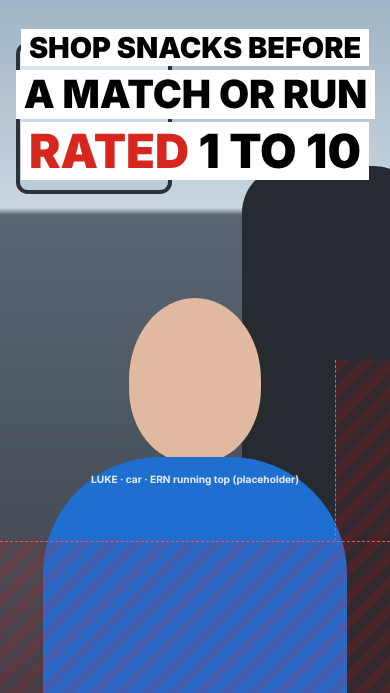
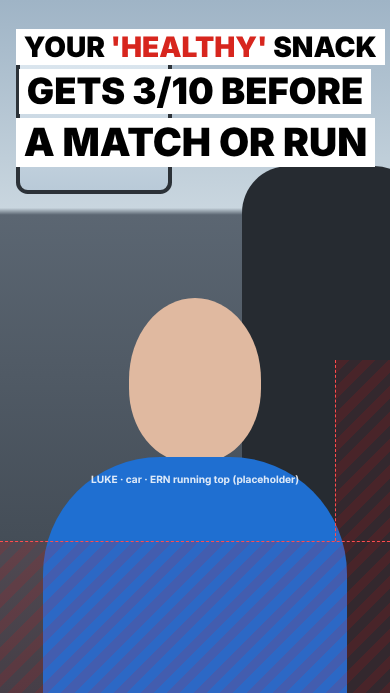
Script: YOUR 'HEALTHY' SNACK / GETS 3/10 BEFORE / A MATCH OR RUN, gated; review fixes G2 G21 G22 G29; FACTS top-up by weight
Claude-Session: https://claude.ai/code/session_01C5bFwjsy7wubJR84HAMdDJ

Changed region(s): [[0.0308, 0.0303, 1.0, 0.2727]]

diff --git a/ideas/engine-room-nutrition/2026-11-27-script-shop-snacks.md b/ideas/engine-room-nutrition/2026-11-27-script-shop-snacks.md
@@ -1,0 +1,157 @@
+---
+type: script (gated)
+gate: v1
+brief_ok: Luke 26 Nov ("Write both scripts"; his own proven format, 'Snacks to have or avoid pre-training / match / run', 38.3K and 27.2K on his TikTok; "match", not Sunday league, P249)
+ost_final_by_luke: pending (YOUR 'HEALTHY' SNACK / GETS 3/10 BEFORE / A MATCH OR RUN, the cold reviewer's 8/9 rewrite; Luke to confirm)
+luke_said: 26 Nov, his snack-shelf videos; "keep it as a match or training"
+stats_ok_by_luke: 26 Nov ("Write both scripts" on the plan)
+send_rule: P235
+moment: training
+generated_at: 2026-11-26
+fixed_after_review: G2 (the mockup showed the old 4/9 title: re-shot with YOUR 'HEALTHY' SNACK / GETS 3/10 BEFORE / A MATCH OR RUN, 'HEALTHY' red, the shop aisle), G21 (a 5-item ranking saves badly: the card and caption now carry the top-up by weight, 60, 75 and 90 kg at about 1 g/kg, the meal 3 to 4 hours before and the jelly sweets after the warm-up and at half-time), G22 (the rule 'carbs the biggest number' would pass pastry: now 'carbs bigger than everything else put together', and the pastry line reads the sausage roll's fat against its carbs; 'Every shop' now 'Most shops'; '5 shop snacks' now '5 snacks', toast isn't a shop snack), G29 (the save line followed Almgren's and the send line the 'Send this to the friend who' shape: save now 'screenshot this card for the next time you're at the shelf', send now 'Your team's group chat argues about this every week, so send this to them and settle it')
+basis: FACTS "Snacks before a match or run" (2016 joint position: 1 to 4 g/kg 1 to 4 h before; high fat, protein or fibre may need avoiding near the event; the protein bar's label from Luke's video, per 50 g: carbs 11 g, protein 16 g, fibre 8 g, fat 7 g; jelly babies about 5 g each; UEFA 30 g after the warm-up and at half-time); FACTS Match day (toast with jam about 20 g a slice, banana about 25 g; UEFA meal 3 to 4 h before)
+format: Instagram trial reel from ERN + ERN TikTok (P174), filmed in a shop, each snack held up with its label
+---
+
+# YOUR 'HEALTHY' SNACK / GETS 3/10 BEFORE / A MATCH OR RUN
+
+## Gate fields
+- OST: YOUR 'HEALTHY' SNACK / GETS 3/10 BEFORE / A MATCH OR RUN
+- OST score: 8/9 (cold ost-reviewer 26 Nov, its rewrite of SHOP SNACKS... which scored 4; 'HEALTHY' red; misses test 9, no count)
+- Markers: PASTRY: 2/10 / PROTEIN BAR: 3/10 / JELLY SWEETS: 7/10 / TOAST AND JAM: 9/10 / BANANA: 10/10
+- Gap phrase: snack before a match or run
+- Repeat line: Protein after the match, but carbs before it
+- Gap held by: "I'm rating 5 snacks, up to the one that gets a 10"
+- Gap closed by: BANANA: 10/10
+- Turn: "gets a 3 out of 10"
+- Keep: THE LABEL TEST card (to draw), on screen from the save line in stage 1 to the end: the rule (carbs bigger than everything else put together; an hour or so before) and the 5 scores with carbs: pastry 2 (the sausage roll's label, read on camera), protein bar 3 (11 g carbs, 16 g protein, 8 g fibre, 7 g fat), jelly sweets 7 (6 = about 30 g), toast and jam 9 (2 slices about 40 g), banana 10 (about 25 g); plus YOUR TOP-UP BY WEIGHT, about 1 g/kg an hour before: 60 kg a banana + 2 slices of toast with jam (about 65 g); 75 kg the same + 2 jelly babies (about 75 g); 90 kg 2 bananas + 2 slices (about 90 g); the meal 3 to 4 hours before; 6 jelly sweets after the warm-up and again at half-time
+- Frame one: Luke alone in the shop aisle, eyes on the lens, the white title card full width in the top band, 'HEALTHY' in red; no snack in shot until stage 1
+- Frame one words: title only
+- Mockup: ideas/engine-room-nutrition/mockups/2026-11-27-snacks-frame-one.png
+- Layer title: your 'healthy' snack scores 3/10 before a match or run
+- Layer picture: none (Luke and the title)
+- Layer line one: new to the title (row 29): the protein bar you grab, and its 3
+- Worked example goal: none, by weight instead (a snack rating has no race clock): 60, 75 and 90 kg rows on the card and in the caption
+- Forecast: IG trial at 24h, 1,500 to 4,000 views, skip 28% to 40%. Base: oranges 2,468 (about 40h), 33.4%; Almgren trial 3,777 at ~15h, 36.9%; Luke's personal snack videos 27.2K and 38.3K (another account, so a ceiling, not a base)
+
+## The gap
+Waiting for: what gets a 10. Line one breaks a belief (the healthy-looking protein bar gets a 3);
+the pain is the snack sitting heavy at the first sprint, the dream is fuel by kick-off. Stage 1 gives
+the label test by about 0:15; the scores climb from 2; the rehook ("so what beats toast and jam?")
+reopens it; the banana shuts it.
+
+## Line-one gap test (P186)
+| Test | Answer |
+|---|---|
+| Line one alone: what does a stranger ask? | "Why only a 3, and what gets a 10?" |
+| One specific question? | Yes |
+| Can they guess it? | "Something with carbs", partly; which one and why the bar fails, no |
+| About them or a stranger? | Them (the bar you grab) |
+| Which stage answers it? | PROTEIN BAR (why 3) and BANANA (the 10) |
+| Anything earlier give it away? | No |
+
+## The 4 questions (P194)
+| Question | Answer |
+|---|---|
+| A moment they recognise? | Grabbing a protein bar in the shop on the way to a match or a run |
+| Why it matters? | The wrong snack can sit heavy at the first sprint |
+| What changed? | The healthy-looking bar gets a 3 before exercise: protein after, carbs before |
+| Something to do tonight? | Screenshot the card; put toast and a banana in the plan for the next match |
+
+## Stack
+Line one: the belief broken (the 'healthy' snack, the protein bar off the shelf), with its score. Pain: it can sit heavy once you start; the count and the peak (up to the one that gets a 10). 42 words before stage 1 (P218). Rating format, lowest to highest (escalation). P248: the shelf, the label, the first sprint. P249: "match", no league. P235: the card from the save line, the send line at the end only.
+
+## Script
+
+"Your 'healthy' snack before a match or run, the protein bar off the shop shelf, gets a 3 out of 10. It can sit heavy once you start, so I'm rating 5 snacks, up to the one that gets a 10."
+
+**[PASTRY: 2/10]**
+
+"Turn the pack over, because the label tells you. You want the carbs bigger than everything else on it put together. The sports nutrition guidelines say heavy, fatty food can upset your stomach close to a game. On a sausage roll, the fat is nearly as big as the carbs, so pastry gets a 2. Save this, and screenshot this card for the next time you're at the shelf, because all 5 scores are on it."
+
+**[PROTEIN BAR: 3/10]**
+
+"This protein bar has just 11 grams of carbs. Against that, there's 16 grams of protein and 8 of fibre. It's a great snack after you play, but a poor one an hour before. Protein after the match, but carbs before it, so it gets a 3."
+
+**[JELLY SWEETS: 7/10]**
+
+"Jelly sweets are nearly all carbs, with no fat or fibre. 6 of them come to about 30 grams. They won't carry a whole game alone, so they lose points. But they're perfect after the warm-up and again at half-time, so keep a bag for those 2 moments."
+
+**[TOAST AND JAM: 9/10]**
+
+"2 slices of toast with jam give you about 40 grams of carbs. White bread keeps the fibre low, and jam adds quick carbs without the fat. Eat it an hour or so before you start, so it's a 9."
+
+"So what beats toast and jam?"
+
+**[BANANA: 10/10]**
+
+"A banana, because it's about 25 grams of carbs with hardly any fat or protein. Most shops and petrol stations have them. Add it to the toast and you're at about 65 grams. It won't feel like an athlete's snack, but it tops up the meal you had earlier, so eat it on the way."
+
+"Your team's group chat argues about this every week, so send this to them and settle it."
+
+## Caption
+I went round the shop and rated 5 snacks for the hour or two before a match or a run, off the label. The rule is the label test: carbs should be the biggest number, with fat, protein and fibre small. The 2016 sports nutrition position (the Academy of Nutrition and Dietetics, Dietitians of Canada and the American College of Sports Medicine) says choices high in fat, protein or fibre may need to be avoided before exercise to lower the risk of stomach trouble, and recommends 1 to 4 g of carbs per kilo, 1 to 4 hours before anything longer than an hour.
+
+The scores: pastry 2, protein bar 3 (11 g carbs, 16 g protein, 8 g fibre, 7 g fat on this one), jelly sweets 7 (about 5 g each, for after the warm-up and half-time), toast and jam 9 (about 40 g for 2 slices), banana 10 (about 25 g). Your top-up an hour or so before, at about 1 g of carbs per kilo: 60 kg, a banana and 2 slices of toast with jam (about 65 g); 75 kg, the same plus 2 jelly babies (about 75 g); 90 kg, 2 bananas and 2 slices (about 90 g). Then 6 jelly sweets after the warm-up and again at half-time if it's a match. The snack tops up the meal; the carb-rich meal 3 to 4 hours before still does most of the work (UEFA's expert group, 2021).
+
+## Pinned comment
+What's your go-to before a match or a run?
+
+Want the full match-day plan by your weight, meal and snack? Comment SNACKS, or email us through the link in the bio, and we'll send it free.
+
+## Facts check
+| Claim | Source | Status |
+|---|---|---|
+| Carbs bigger than everything else put together | FACTS Snacks: 2016 joint position (high fat/protein/fibre may need avoiding before the event) | Pass (the label test is our rule built on it) |
+| The guidelines say heavy, fatty food can upset your stomach close to a game | FACTS Snacks ("choices high in fat/protein/fiber... to reduce risk of gastrointestinal issues"; said with "can") | Pass |
+| On a sausage roll the fat is nearly as big as the carbs | FACTS Snacks (packet values of a typical bakery sausage roll; to confirm on the filmed pack) | Flag: Luke reads the filmed pack; if its fat isn't close to its carbs, swap the line to what the label shows |
+| This bar: 11 g carbs, 16 g protein, 8 g fibre | FACTS Snacks: the label in Luke's video (per 50 g bar) | Pass (film that bar, or read the new bar's label) |
+| Great after you play, poor an hour before | FACTS Snacks (2016 position); FACTS Restart (carbs with protein after) | Pass |
+| Jelly sweets: no fat or fibre; 6 = about 30 g | FACTS Match day (jelly babies about 5 g each) | Pass |
+| Perfect after the warm-up and at half-time | FACTS Match day (UEFA 2021, 30 to 60 g; Harper 2017, 30 g at half-time) | Pass |
+| 2 slices of toast with jam about 40 g | FACTS Match day (about 20 g a slice) | Pass |
+| White bread keeps the fibre low | Common knowledge (white vs wholemeal) | Pass |
+| Eat it an hour or so before | FACTS Snacks (1 to 4 h before; the snack at the short end) | Pass |
+| Banana about 25 g, hardly any fat or protein | FACTS Match day (about 25 g); packet values | Pass |
+| Banana + toast about 65 g | 25 + 40 | Pass |
+| It tops up the meal you had earlier | FACTS Match day (UEFA 2021, the meal 3 to 4 hours before); FACTS Snacks | Pass |
+
+## Humanizer (P169, P202)
+| Check | Result |
+|---|---|
+| check.py | See the gate run |
+| Orders, not suggestions (P203) | turn the pack over, save, keep a bag, eat, add, send |
+| Template lines (P186) | "If you've ever" not used; no line from the easy-runs or Almgren scripts |
+| Medical tent (P223) | None ("can upset your stomach", no illness claims) |
+
+## Captivating (P206, P207, P228, P235, P244, P248)
+- Line one breaks a belief (the 'healthy' protein bar), with the score.
+- The aha first in stage 1: the label test, three numbers on every pack.
+- The honest cost: "It won't feel like an athlete's snack, but it tops up the meal you had earlier."
+- Repeat line: "Protein after the match, but carbs before it." (G33)
+- Something to keep: the label test card with the 5 scores and their carbs (P224).
+- Send line at the end only: the team group chat that argues about this every week.
+
+## Scorecard (SCRIPT-SCORECARD.md)
+| # | Marker | Score | The line |
+|---|---|---|---|
+| 1 | Frame one: white card full width, Luke alone | PASS | mockup 2026-11-27-snacks-frame-one-phone.png, 7.4/10.0/12.1vw |
+| 2 | Line one sets aside a belief in their words | PASS | "Your 'healthy' snack... gets a 3 out of 10" |
+| 3 | Hook 40 to 45 words, stage 1 by 0:15 | PASS | 42 words |
+| 4 | The turn before stage 1 | PASS | "gets a 3 out of 10" |
+| 5 | Objection answered by the end of the hook | MISS | the hook names the pain (sits heavy), the fix waits for the stages |
+| 6 | Keep card, 4+ numbers per goal time | PASS | the top-up by weight (60, 75, 90 kg) plus the 5 scores with carbs |
+| 7 | Worked example a goal most have | MISS | no goal time (a match or a run); weights on the card instead |
+| 8 | Every stage ends on an action with a number | PASS | save and screenshot (all 5); it gets a 3; keep a bag for 2 moments; an hour or so before; add it to the toast (65 g) |
+| 9 | No ask in the body | PASS | save after stage 1, send line last, email pinned |
+| 10 | The honest cost | PASS | the athlete's-snack line |
+| 11 | Repeat line + a send line that flatters | PASS | protein after / carbs before; the group chat that argues about it (settle it) |
+| 12 | 280 to 330 words, one clock | PASS | see the gate run; one clock (the hour before) |
+**10/12: film.**
+
+## Known risks
+- **The pastry line depends on the pack Luke films:** read its fat and carbs aloud; if the fat isn't close, change the line to what the label shows.
+- **The premise (Luke's fry catch):** that people grab a protein bar is not measured; it's the 'healthy' snack the title names, and a story poll ('What do you grab before a match or run? Protein bar / Banana / Sweets / Nothing') should run first; swap the bar for the poll's top answer if it isn't the bar.
+- **Repeats the oranges reel's world (17 Nov):** a new frame (the shop shelf, a snack rating), a trial reel (G32).
+- **Luke's personal account did this format first:** fine; it's ERN's trial and Luke's own idea.
+- **Pastry has no number in the audio:** read on camera from the pack.

diff --git a/gate/reviews/2026-11-27-script-shop-snacks.md b/gate/reviews/2026-11-27-script-shop-snacks.md
@@ -1,0 +1,13 @@
+# Gate review: 2026-11-27-script-shop-snacks.md
+Script hash: eea621e2568f78a5
+Reviewed: 2026-11-26, independent (gate-reviewer), one pass
+Mockup: ideas/engine-room-nutrition/mockups/2026-11-27-snacks-frame-one.png
+
+| Test | Verdict | The line it rests on (quoted) | Why, and the exact fix |
+|---|---|---|---|
+| G2 | FAIL | Mockup reads "SHOP SNACKS BEFORE / A MATCH OR RUN / RATED 1 TO 10", label "LUKE · car" | The mockup shows the retired 4/9 title in a car, not the gated YOUR 'HEALTHY' SNACK / GETS 3/10 BEFORE / A MATCH OR RUN in a shop aisle, so frame one hasn't been checked; fix: re-shoot the mockup with `gate/shoot_frame.js` (spec=white, top band, 'HEALTHY' red) using the gated OST and the shop-aisle background, then re-check that the title is the only words on screen. |
+| G12 | PASS | "YOUR 'HEALTHY' SNACK / GETS 3/10 BEFORE / A MATCH OR RUN" | The title names neither the snack nor what scores 10, so skipping it loses the answer, and the 3/10 is the snack's score, not a failure rate for us or the viewer. |
+| G21 | FAIL | Keep: "the 5 scores with carbs"; "Worked example goal: sub-4 not applicable ... G21 is Luke's call" | A 5-item ranking (banana best, protein bar bad) sticks after one watch, and rankings saved 0.3% to 0.8% in the saves deep dive, so there's nothing here they need to come back to; fix (no Luke needed, it's all in FACTS): add a by-weight row to the card and the caption (an hour before, about 1 g/kg: 60 kg banana + 2 slices with jam, about 65 g; 75 kg the same + 2 jelly babies, about 75 g; 90 kg 2 bananas + 2 slices, about 90 g), with the meal 3 to 4 hours before and 6 jelly sweets after the warm-up and at half-time. |
+| G22 | FAIL | "You want carbs to be the biggest number on it, and everything else small ... A sausage roll or a croissant is mostly pastry, so it gets a 2." | "Mostly pastry" isn't a label reading, and on the pack Luke turns over carbs will usually be the biggest number, so the rule he's just said seems to pass the thing he scores 2; fix: read the filmed pack's fat against its carbs aloud (e.g. "X grams of fat, about half its carbs") and log both in FACTS; also change "Every shop and petrol station has them" to "Most shops and petrol stations have them" (untraced and absolute), and "5 shop snacks" to "5 snacks" (toast and jam isn't sold ready-made in a shop). P201 holds: the title faults the 'healthy' protein bar, and the payoff is a banana, not the bar. |
+| G23 | PASS | "Eat it an hour or so before you start"; "so eat it on the way"; "keep a bag for those 2 moments" | Toast at home, a banana bought on the way and a bag of jelly sweets are things this audience already does, with no setup and no in-race food (moment: training). |
+| G29 | FAIL | "Save this and screenshot this card now, because it has all 5 scores." / "Send this to the teammate who's always first to the ball, so they're still first at the end." | The save line is nearly word for word Almgren's ("Save this and screenshot the card, so you've got your 4 paces"), and the send line repeats the "Send this to the friend who's ..., because ..." template from Almgren and easy runs; fix: rewrite both in a new shape, e.g. save "All 5 scores are on this card, so keep it for the next time you're stood at the shelf" and send "Your team's group chat argues about this every week, so drop the 5 scores in it." |

diff --git a/FACTS.md b/FACTS.md
@@ -478,3 +478,5 @@ regulations PDF), Brighton (Cancer Research UK, realbuzz guide), Belfast
 - **Jelly sweets:** jelly babies about 5 g of carbs each (FACTS Match day), 6 = about 30 g, no fat or fibre; UEFA's 30 g after the warm-up and at half-time (Harper 2017) is where they fit.
 - **Pastry (sausage roll, croissant):** no figures read; on camera, read the label's fat and carbs. Audio rates it on the label shown, no number unless it's on the pack.
 - **The meal still matters most:** UEFA 2021, a carb-rich meal of 1 to 3 g/kg 3 to 4 hours before kick-off (FACTS Match day). A snack tops it up; it doesn't replace it.
+- **Sausage roll (typical bakery roll, packet values, approximate):** fat about 20 g against carbs about 25 g per roll, so the fat is nearly as big as the carbs. Not read from a filmed pack: Luke reads the pack he films and the audio follows that label.
+- **Top-up by weight, about 1 g/kg an hour or so before (the short end of the 2016 range):** 60 kg: a banana + 2 slices of toast with jam (about 65 g); 75 kg: the same + 2 jelly babies (about 75 g); 90 kg: 2 bananas + 2 slices (about 90 g).
